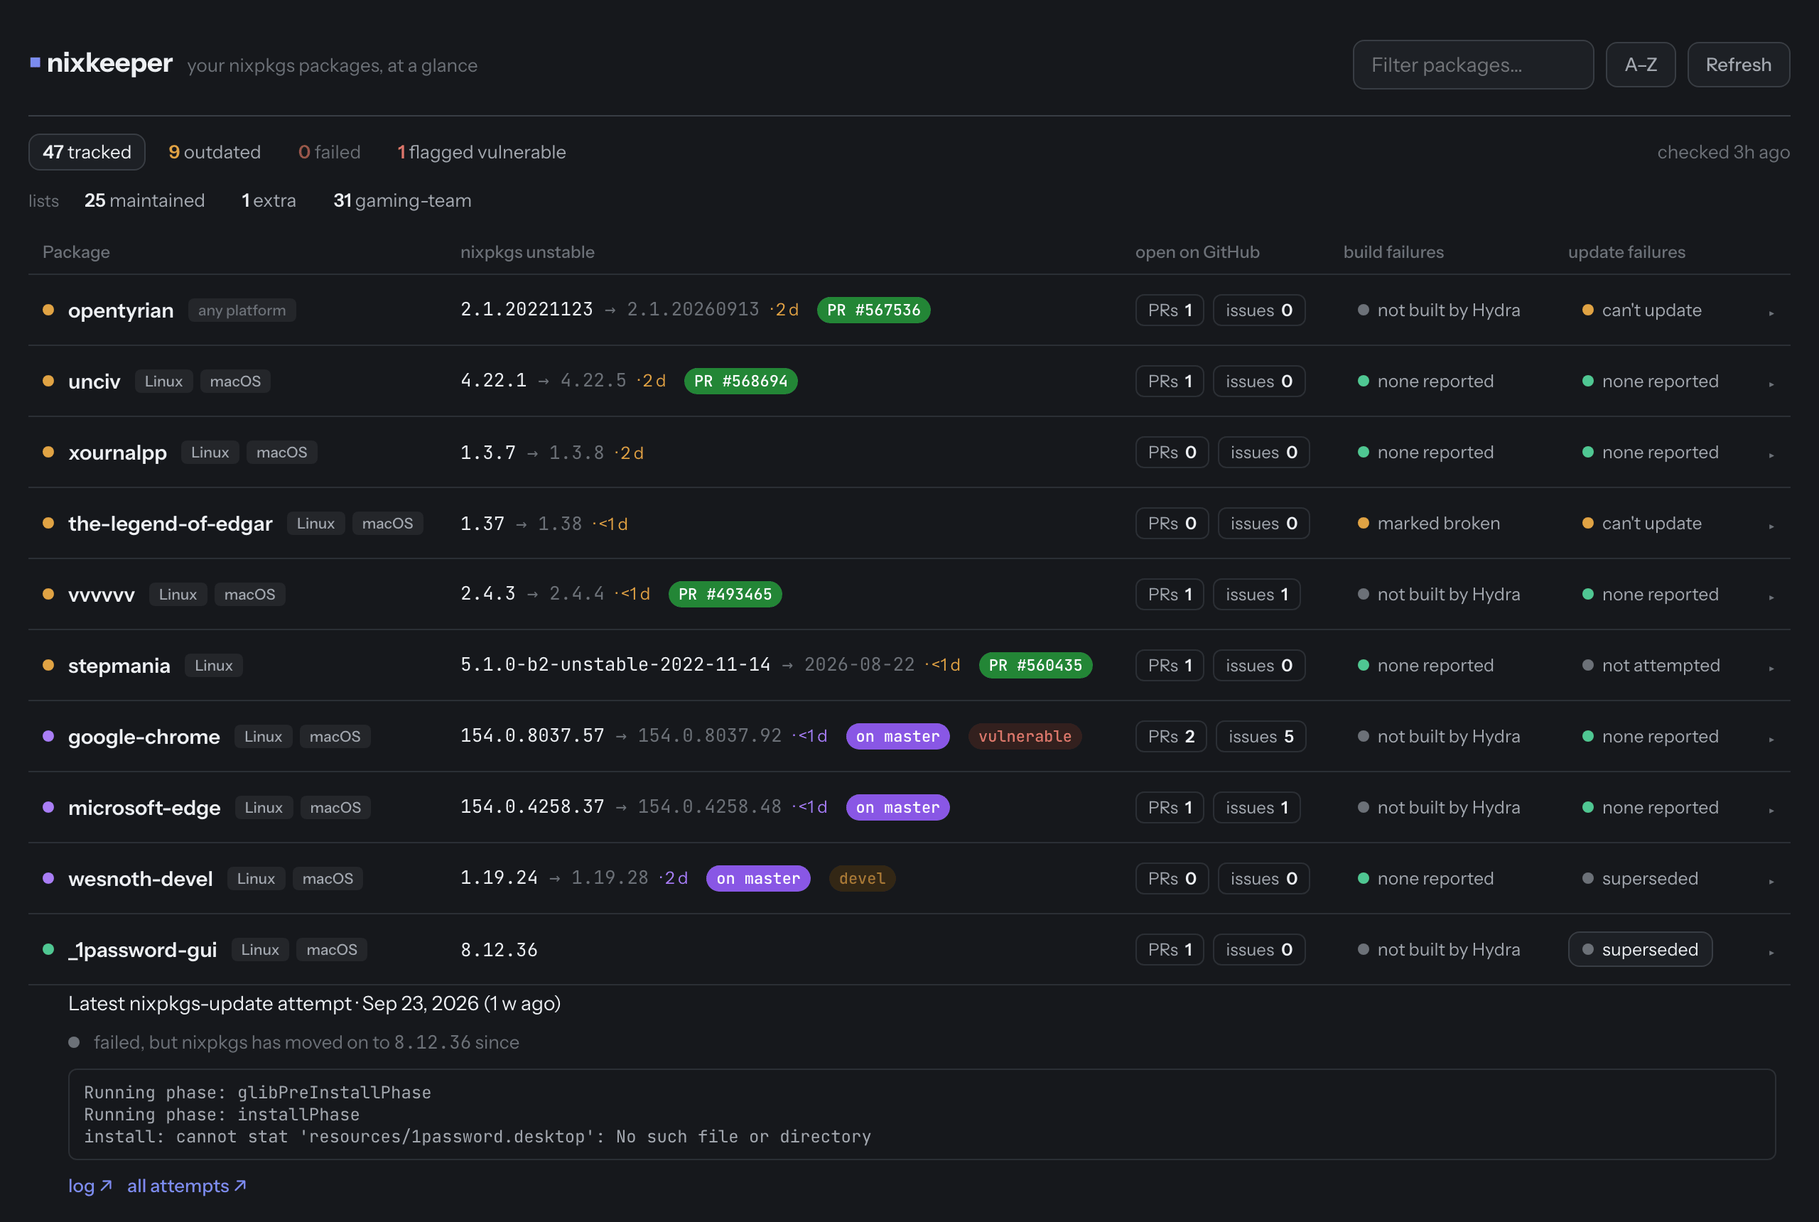
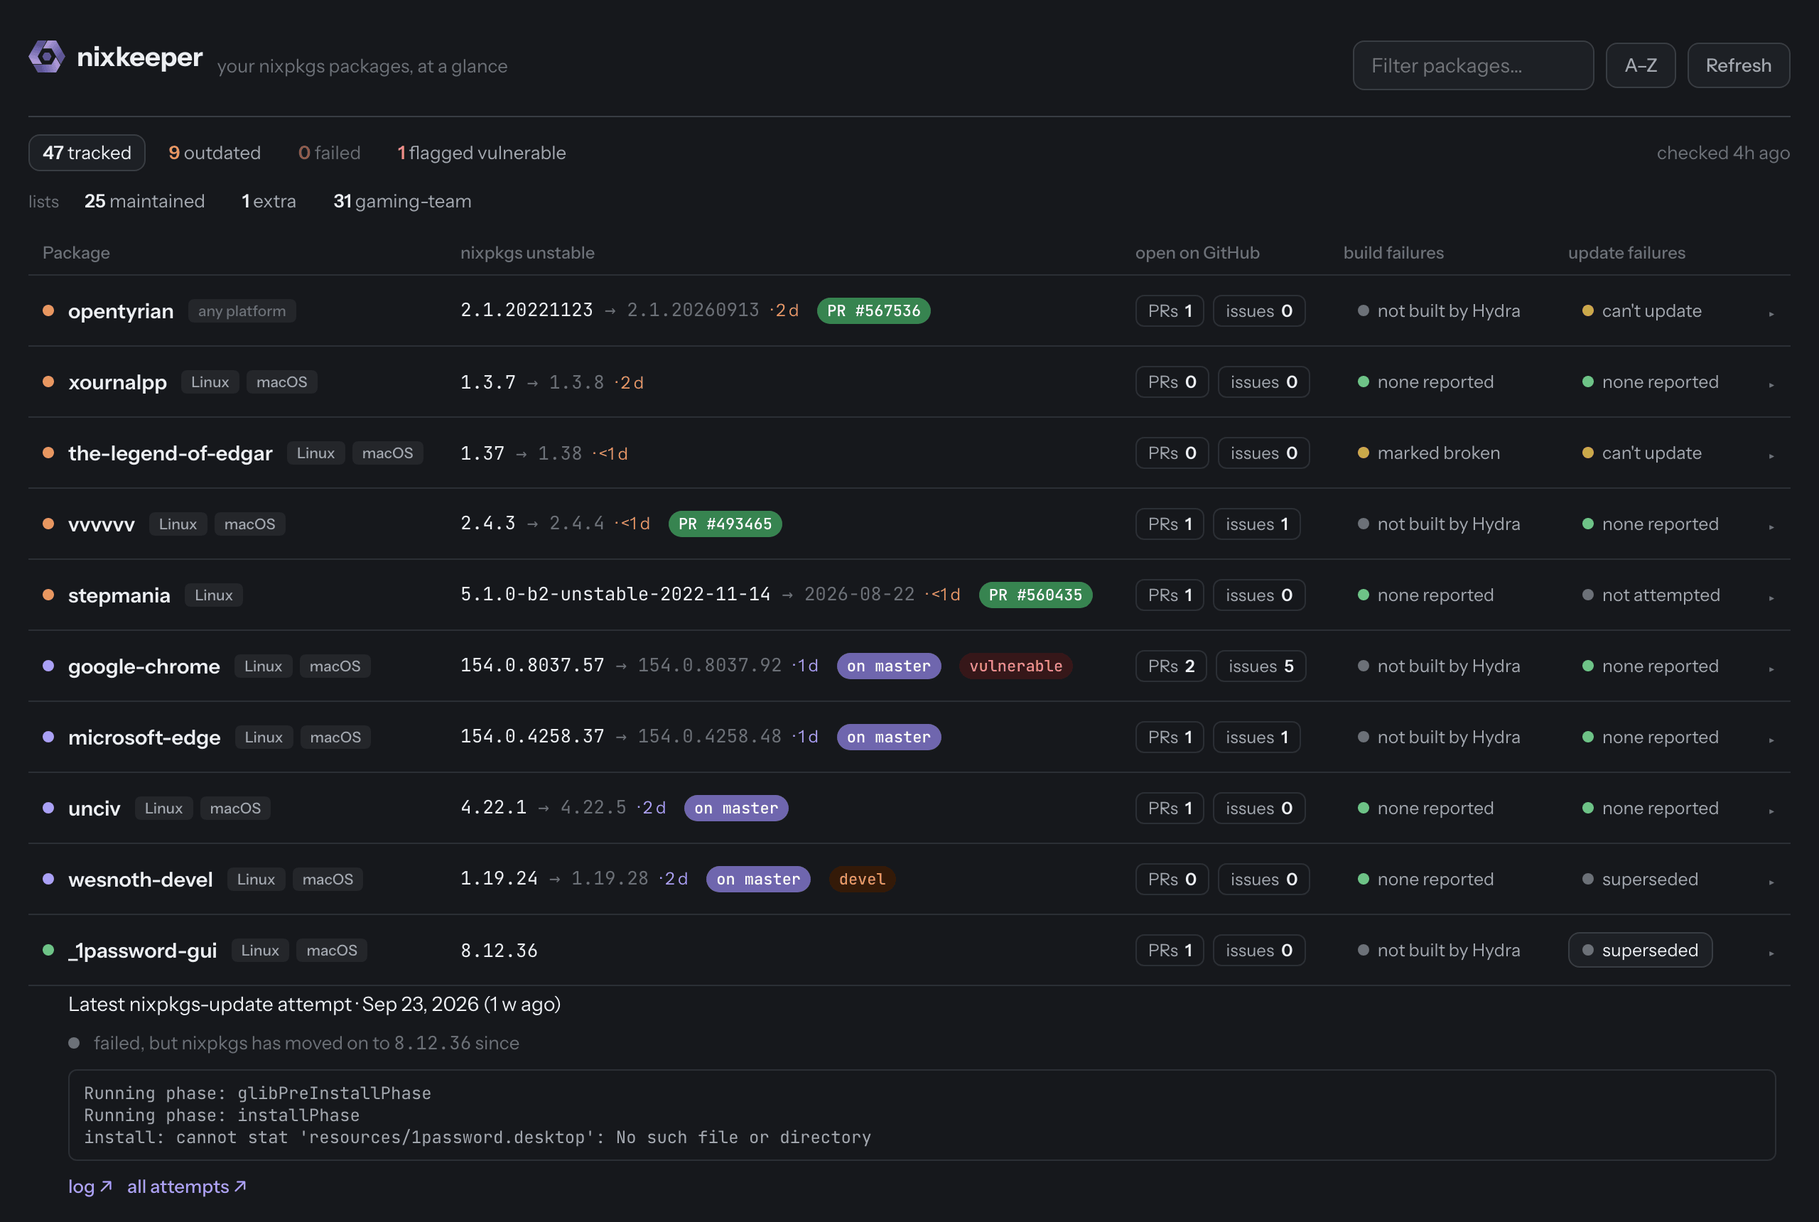
feat: page colors from nixkeeper's identity

diff --git a/assets/brand/identity.html b/assets/brand/identity.html
@@ -42,6 +42,6 @@ NixOS guide's accents, with the page's meanings.</p>
 <h2>Roles: dot, text, badge and tint, in each theme</h2>
 <div class="themes">
 <div class="theme" style="background:#fff"><div class="role"><span class="dot" style="background:#4fa46a"></span><span style="color:#28633c">up to date</span><span class="badge" style="background:#378450">ok</span><span class="tint" style="background:#e0f5e5"></span></div><div class="role"><span class="dot" style="background:#c77942"></span><span style="color:#7b461f">outdated, a new release</span><span class="badge" style="background:#a25e2c">outdated</span><span class="tint" style="background:#faebe2"></span></div><div class="role"><span class="dot" style="background:#ce6e76"></span><span style="color:#803e44">failed, not in nixpkgs, vulnerable</span><span class="badge" style="background:#a8545b">failed</span><span class="tint" style="background:#fce9ea"></span></div><div class="role"><span class="dot" style="background:#ac8b26"></span><span style="color:#695205">can't update, marked broken</span><span class="badge" style="background:#8a6e08">warn</span><span class="tint" style="background:#f6eed8"></span></div><div class="role"><span class="dot" style="background:#8c82d4"></span><span style="color:#534c84">on master</span><span class="badge" style="background:#6f66ae">merged</span><span class="tint" style="background:#ededfc"></span></div><div class="role"><span class="dot" style="background:#8c82d4"></span><span style="color:#534c84">links and key UI</span><span class="badge" style="background:#6f66ae">link</span><span class="tint" style="background:#ededfc"></span></div></div>
-<div class="theme" style="background:#16181c"><div class="role"><span class="dot" style="background:#6fc488"></span><span style="color:#6fc488">up to date</span><span class="badge" style="background:#4fa46a">ok</span><span class="tint" style="background:#0c2815"></span></div><div class="role"><span class="dot" style="background:#e99861"></span><span style="color:#e99861">outdated, a new release</span><span class="badge" style="background:#c77942">outdated</span><span class="tint" style="background:#341a08"></span></div><div class="role"><span class="dot" style="background:#f08d94"></span><span style="color:#f08d94">failed, not in nixpkgs, vulnerable</span><span class="badge" style="background:#ce6e76">failed</span><span class="tint" style="background:#361719"></span></div><div class="role"><span class="dot" style="background:#cbaa4b"></span><span style="color:#cbaa4b">can't update, marked broken</span><span class="badge" style="background:#ac8b26">warn</span><span class="tint" style="background:#2b2001"></span></div><div class="role"><span class="dot" style="background:#aaa1f6"></span><span style="color:#aaa1f6">on master</span><span class="badge" style="background:#8c82d4">merged</span><span class="tint" style="background:#211d38"></span></div><div class="role"><span class="dot" style="background:#aaa1f6"></span><span style="color:#aaa1f6">links and key UI</span><span class="badge" style="background:#8c82d4">link</span><span class="tint" style="background:#211d38"></span></div></div>
+<div class="theme" style="background:#16181c"><div class="role"><span class="dot" style="background:#6fc488"></span><span style="color:#6fc488">up to date</span><span class="badge" style="background:#378450">ok</span><span class="tint" style="background:#0c2815"></span></div><div class="role"><span class="dot" style="background:#e99861"></span><span style="color:#e99861">outdated, a new release</span><span class="badge" style="background:#a25e2c">outdated</span><span class="tint" style="background:#341a08"></span></div><div class="role"><span class="dot" style="background:#f08d94"></span><span style="color:#f08d94">failed, not in nixpkgs, vulnerable</span><span class="badge" style="background:#a8545b">failed</span><span class="tint" style="background:#361719"></span></div><div class="role"><span class="dot" style="background:#cbaa4b"></span><span style="color:#cbaa4b">can't update, marked broken</span><span class="badge" style="background:#8a6e08">warn</span><span class="tint" style="background:#2b2001"></span></div><div class="role"><span class="dot" style="background:#aaa1f6"></span><span style="color:#aaa1f6">on master</span><span class="badge" style="background:#6f66ae">merged</span><span class="tint" style="background:#211d38"></span></div><div class="role"><span class="dot" style="background:#aaa1f6"></span><span style="color:#aaa1f6">links and key UI</span><span class="badge" style="background:#6f66ae">link</span><span class="tint" style="background:#211d38"></span></div></div>
 </div>
 </body></html>

diff --git a/docs/style.css b/docs/style.css
@@ -9,25 +9,35 @@
   /* Links and key UI: the brand violet (tokens.css, from assets/brand/), which
      switches to its dark-theme value by itself. */
   --accent: var(--nk-link-text);
-  --ok: #1f8a5f;
-  --ok-soft: #e7f4ee;
-  --ok-devel: #135c3e;
-  --warn: #b8730a;
-  --warn-soft: #fbf1e1;
-  --warn-devel: #7d4e05;
+  /* Statuses: the brand tokens' roles (tokens.css), which switch to their
+     dark-theme values by themselves. Dots use the brighter fill; text uses
+     the darker text value, readable on the page's backgrounds. Outdated and
+     the amber states (can't update, marked broken) still share --warn. */
+  --ok: var(--nk-ok-fill);
+  --ok-soft: var(--nk-ok-bg);
+  --ok-devel: var(--nk-ok-text);
+  --warn: var(--nk-outdated-text);
+  --warn-dot: var(--nk-outdated-fill);
+  --warn-soft: var(--nk-outdated-bg);
+  --warn-devel: var(--nk-outdated-text);
   --stale: #8b8f94;
   --stale-soft: #eeeeef;
-  --danger: #c4433a;
-  --danger-soft: #fbe9e7;
-  /* GitHub's merged-PR purple (Primer "done"), for "on master": the update
-     is merged. fgColor-done, bgColor-done-emphasis, bgColor-done-muted. */
-  --merged: #8250df;
-  --merged-emphasis: #8250df;
-  --merged-soft: #fbefff;
-  /* GitHub's open and draft PR labels (Primer bgColor-success-emphasis,
-     bgColor-neutral-emphasis). */
-  --pr-open: #1f883d;
-  --pr-draft: #59636e;
+  /* Can't update, marked broken, a failed dependency: known problems that
+     need a hand, not failures. */
+  --caution: var(--nk-warn-text);
+  --caution-dot: var(--nk-warn-fill);
+  --danger: var(--nk-failed-text);
+  --danger-dot: var(--nk-failed-fill);
+  --danger-soft: var(--nk-failed-bg);
+  /* "On master" (the update is merged, waiting for the channel): the brand
+     violet. */
+  --merged: var(--nk-merged-text);
+  --merged-dot: var(--nk-merged-fill);
+  --merged-emphasis: var(--nk-merged-badge);
+  --merged-soft: var(--nk-merged-bg);
+  /* Update PR badges: open in the up-to-date green, draft in grey. */
+  --pr-open: var(--nk-ok-badge);
+  --pr-draft: var(--nk-neutral-l55);
   --radius: 8px;
 }
 @media (prefers-color-scheme: dark) {
@@ -39,21 +49,8 @@
     --ink-faint: #6c7178;
     --hairline: #2b2f35;
     --hairline-strong: #383d44;
-    --ok: #4fc793;
-    --ok-soft: #1b2e27;
-    --warn: #e0a344;
-    --warn-soft: #332714;
-    --ok-devel: #2e9466;
-    --warn-devel: #a8762b;
     --stale: #82868c;
     --stale-soft: #24262a;
-    --danger: #e0776e;
-    --danger-soft: #33201e;
-    --merged: #ab7df8;
-    --merged-emphasis: #8957e5;
-    --merged-soft: #ab7df826;
-    --pr-open: #238636;
-    --pr-draft: #656c76;
   }
 }
 * {
@@ -253,13 +250,16 @@ tbody tr.row td {
   background: var(--ok);
 }
 .status-dot.warn {
-  background: var(--warn);
+  background: var(--warn-dot);
 }
 .status-dot.merged {
-  background: var(--merged);
+  background: var(--merged-dot);
+}
+.status-dot.caution {
+  background: var(--caution-dot);
 }
 .status-dot.missing {
-  background: var(--danger);
+  background: var(--danger-dot);
 }
 .status-dot.neutral {
   background: var(--ink-faint);
@@ -272,6 +272,12 @@ tbody tr.row td {
   /* Short of space, the platform tags go under the name. */
   flex-wrap: wrap;
   row-gap: 4px;
+}
+/* The dot and the name stay together: only the tags wrap. */
+.pkg-name .who {
+  display: inline-flex;
+  align-items: center;
+  gap: 10px;
 }
 .pkg-name .n {
   font-weight: 600;
@@ -336,7 +342,7 @@ button.plat[aria-pressed="true"] {
   font-family: "Instrument Sans", system-ui, sans-serif;
   font-size: 12px;
 }
-/* Waiting for the channel: the merged purple, like its dot. */
+/* Waiting for the channel: the merged violet, like its dot. */
 .ver .age.merged {
   color: var(--merged);
 }
@@ -368,8 +374,8 @@ button.plat[aria-pressed="true"] {
   background: var(--danger-soft);
   color: var(--danger);
 }
-/* Outdated, but the update is already on master: GitHub's "Merged" label,
-   solid purple with white text. */
+/* Outdated, but the update is already on master: a solid violet label with
+   white text, like GitHub's "Merged". */
 .badge.onmaster {
   background: var(--merged-emphasis);
   color: #ffffff;
@@ -467,6 +473,9 @@ a.badge:hover {
 }
 .build-line .st.warn {
   color: var(--warn);
+}
+.build-line .st.caution {
+  color: var(--caution);
 }
 .build-line .st.neutral {
   color: var(--ink-faint);

diff --git a/docs/app.js b/docs/app.js
@@ -419,7 +419,7 @@ function render(list) {
     tr.className = 'row';
     tr.tabIndex = 0;
     tr.innerHTML = `
-      <td class="c-name"><div class="pkg-name"><span class="status-dot ${waitingForChannel(pkg) ? 'merged' : st}"${waitingForChannel(pkg) ? ' title="Update merged: on master, waiting for nixos-unstable"' : ''}></span><span class="n">${escapeHtml(pkg.name)}</span>${platformTags(pkg)}</div></td>
+      <td class="c-name"><div class="pkg-name"><span class="who"><span class="status-dot ${waitingForChannel(pkg) ? 'merged' : st}"${waitingForChannel(pkg) ? ' title="Update merged: on master, waiting for nixos-unstable"' : ''}></span><span class="n">${escapeHtml(pkg.name)}</span></span>${platformTags(pkg)}</div></td>
       <td class="c-ver ver mono">${verCell}</td>
       <td class="c-gh${pkg.openPRs || pkg.openIssues ? '' : ' quiet'}">${githubLinks(pkg)}</td>
       <td class="c-build">${buildCell(pkg)}</td>
@@ -522,7 +522,7 @@ function buildCell(pkg) {
     );
   if (failedBuilds(pkg).length) return button('missing', 'failure reported');
   // Known failures: shown, but not counted as failed.
-  if (buildsWith(pkg, 'broken').length) return button('warn', 'marked broken');
+  if (buildsWith(pkg, 'broken').length) return button('caution', 'marked broken');
   if (!hydraBuildsIt(pkg)) return button('neutral', 'not built by Hydra', true);
   return button('ok', 'none reported', true);
 }
@@ -546,7 +546,7 @@ function updateCell(pkg) {
   if (pkg.update?.outcome === 'superseded') return button('neutral', 'superseded');
   // A newer version the bot has no way to update to: not a failure, but it
   // needs a manual update (or an updateScript).
-  if (pkg.update?.outcome === 'cantUpdate') return button('warn', "can't update");
+  if (pkg.update?.outcome === 'cantUpdate') return button('caution', "can't update");
   if (pkg.update === null) return button('neutral', 'not attempted', true);
   return button('ok', 'none reported', true);
 }
@@ -572,7 +572,7 @@ const UPDATE_OUTCOME = {
   // Every way the bot has of updating a package declined (the excerpt says
   // why): the update needs doing by hand, or an updateScript.
   cantUpdate: {
-    dot: 'warn',
+    dot: 'caution',
     text: () =>
       "couldn't update it: none of the bot's ways of updating a package apply here. Update it by hand, or give the package an updateScript so the bot can next time",
   },
@@ -621,9 +621,9 @@ const HYDRA = 'https://hydra.nixos.org';
 const BUILD_STATUS = {
   ok: { dot: 'ok', text: 'built OK' },
   failed: { dot: 'missing', text: 'failed' },
-  broken: { dot: 'warn', text: 'marked broken in nixpkgs' },
-  dependency: { dot: 'warn', text: "didn't build: a dependency failed" },
-  unfinished: { dot: 'warn', text: "didn't finish (timed out or aborted)" },
+  broken: { dot: 'caution', text: 'marked broken in nixpkgs' },
+  dependency: { dot: 'caution', text: "didn't build: a dependency failed" },
+  unfinished: { dot: 'caution', text: "didn't finish (timed out or aborted)" },
   notBuilt: { dot: 'neutral', text: 'not built by Hydra on this platform' },
   unknown: { dot: 'neutral', text: "couldn't check Hydra on the last run" },
 };

diff --git a/assets/brand/tokens.css b/assets/brand/tokens.css
@@ -97,27 +97,27 @@
   :root {
     --nk-ok-fill: #6fc488;
     --nk-ok-text: #6fc488;
-    --nk-ok-badge: #4fa46a;
+    --nk-ok-badge: #378450;
     --nk-ok-bg: #0c2815;
     --nk-outdated-fill: #e99861;
     --nk-outdated-text: #e99861;
-    --nk-outdated-badge: #c77942;
+    --nk-outdated-badge: #a25e2c;
     --nk-outdated-bg: #341a08;
     --nk-failed-fill: #f08d94;
     --nk-failed-text: #f08d94;
-    --nk-failed-badge: #ce6e76;
+    --nk-failed-badge: #a8545b;
     --nk-failed-bg: #361719;
     --nk-warn-fill: #cbaa4b;
     --nk-warn-text: #cbaa4b;
-    --nk-warn-badge: #ac8b26;
+    --nk-warn-badge: #8a6e08;
     --nk-warn-bg: #2b2001;
     --nk-merged-fill: #aaa1f6;
     --nk-merged-text: #aaa1f6;
-    --nk-merged-badge: #8c82d4;
+    --nk-merged-badge: #6f66ae;
     --nk-merged-bg: #211d38;
     --nk-link-fill: #aaa1f6;
     --nk-link-text: #aaa1f6;
-    --nk-link-badge: #8c82d4;
+    --nk-link-badge: #6f66ae;
     --nk-link-bg: #211d38;
   }
 }

diff --git a/docs/tokens.css b/docs/tokens.css
@@ -97,27 +97,27 @@
   :root {
     --nk-ok-fill: #6fc488;
     --nk-ok-text: #6fc488;
-    --nk-ok-badge: #4fa46a;
+    --nk-ok-badge: #378450;
     --nk-ok-bg: #0c2815;
     --nk-outdated-fill: #e99861;
     --nk-outdated-text: #e99861;
-    --nk-outdated-badge: #c77942;
+    --nk-outdated-badge: #a25e2c;
     --nk-outdated-bg: #341a08;
     --nk-failed-fill: #f08d94;
     --nk-failed-text: #f08d94;
-    --nk-failed-badge: #ce6e76;
+    --nk-failed-badge: #a8545b;
     --nk-failed-bg: #361719;
     --nk-warn-fill: #cbaa4b;
     --nk-warn-text: #cbaa4b;
-    --nk-warn-badge: #ac8b26;
+    --nk-warn-badge: #8a6e08;
     --nk-warn-bg: #2b2001;
     --nk-merged-fill: #aaa1f6;
     --nk-merged-text: #aaa1f6;
-    --nk-merged-badge: #8c82d4;
+    --nk-merged-badge: #6f66ae;
     --nk-merged-bg: #211d38;
     --nk-link-fill: #aaa1f6;
     --nk-link-text: #aaa1f6;
-    --nk-link-badge: #8c82d4;
+    --nk-link-badge: #6f66ae;
     --nk-link-bg: #211d38;
   }
 }

diff --git a/scripts/brand/tokens.py b/scripts/brand/tokens.py
@@ -72,7 +72,9 @@ def role(r):
             "badge": r["l55"],
             "bg": r["l95"],
         },
-        "dark": {"fill": r["l75"], "text": r["l75"], "badge": r["l65"], "bg": r["l25"]},
+        # Badges keep L55 in both themes: white text on L65 falls below the
+        # 4.5:1 contrast minimum.
+        "dark": {"fill": r["l75"], "text": r["l75"], "badge": r["l55"], "bg": r["l25"]},
     }
 
 

diff --git a/README.md b/README.md
@@ -32,7 +32,7 @@ For each package it tracks, nixkeeper shows on one static page (`docs/`):
   [nixpkgs-update](https://nixpkgs-update-logs.nixos.org) bot (r-ryantm)
 - **Vulnerabilities**: versions Repology flags, with their known CVEs
 - **Open PRs and issues** in nixpkgs that name the package, with the update
-  PR one click away: open (GitHub's green), or merged and on master (purple)
+  PR one click away: open (green), or merged and on master (violet)
   while it waits for the channel
 
 A daily sync (GitHub Actions, or anywhere: see [Running elsewhere](#running-elsewhere))
@@ -100,8 +100,8 @@ stay in the address, so a view can be shared.
 |---|---|
 | green | up to date: nixpkgs has the newest version (for a devel package, the newest devel one), or is the only one packaging it |
 | orange | outdated: Repology or nixkeeper's own update check knows a newer version |
-| purple | outdated, but the update is already merged on master, waiting for nixos-unstable (usually a few days) |
-| red | not in nixpkgs unstable (counted as failed) |
+| violet | outdated, but the update is already merged on master, waiting for nixos-unstable (usually a few days) |
+| pink | not in nixpkgs unstable (counted as failed) |
 | grey | Repology can't compare the version: `untrusted`, `rolling`, `noscheme`, `incorrect` (shown as a badge) |
 
 **The version**: nixpkgs unstable's, then for an outdated package `→` the
@@ -113,7 +113,7 @@ the target shows just the new date.
 | Badge | Means |
 |---|---|
 | `PR #123` (green) | an open update PR in nixpkgs; grey while it's a draft |
-| `on master` (purple) | the update is merged into master; links to its PR |
+| `on master` (violet) | the update is merged into master; links to its PR |
 | `devel` | a development release, compared against other devel versions |
 | `vulnerable` | Repology flags this version; the details link its known CVEs |
 | `untrusted`, `rolling`, ... | Repology's status for a version it can't compare |
@@ -124,8 +124,8 @@ the target shows just the new date.
 
 | Shows | Means |
 |---|---|
-| failure reported (red) | its latest build failed on a platform: the panel links the log and says when it last built, and at which version |
-| marked broken | nixpkgs marks it broken on a platform (known, so not counted as failed) |
+| failure reported (pink) | its latest build failed on a platform: the panel links the log and says when it last built, and at which version |
+| marked broken (gold) | nixpkgs marks it broken on a platform (known, so not counted as failed) |
 | not built by Hydra | unfree, or kept off Hydra by nixpkgs |
 | none reported | no failure of its own; a failed dependency or an unfinished build shows only in the panel |
 
@@ -133,15 +133,15 @@ the target shows just the new date.
 
 | Shows | Means |
 |---|---|
-| failure reported (red) | the bot's update failed: the panel shows the end of its log |
-| can't update (amber) | a newer version exists, but none of the bot's ways of updating apply to this package: update it by hand, or give it an updateScript |
+| failure reported (pink) | the bot's update failed: the panel shows the end of its log |
+| can't update (gold) | a newer version exists, but none of the bot's ways of updating apply to this package: update it by hand, or give it an updateScript |
 | superseded | the attempt no longer matters: nixpkgs has moved past that version (in the channel, or merged on master), or a manual rule ignores it (`package-lists/ignored-updates.nix`) |
 | not attempted | the bot has never tried this package |
 | none reported | the bot opened a PR, found one open, had nothing to update, or finished without a recognisable result (the panel says which) |
 
 A `not refreshed` tag on a build or update cell means Hydra or the update
 logs couldn't be reached on the last sync, so it shows the last known result.
-The time at the top right is the last sync; it turns red when that was over
+The time at the top right is the last sync; it turns pink when that was over
 two days ago.
 
 ## What gets tracked

diff --git a/CHANGELOG.md b/CHANGELOG.md
@@ -26,6 +26,21 @@ The version lives in `pyproject.toml`; `flake.nix` reads it from there.
 - Links and key UI on the page (focus outlines, active filters) are in
   nixkeeper's violet, from the brand's colour tokens, which the page now
   loads (`docs/tokens.css`).
+- The page's statuses use the identity's colours: up to date in Zambian
+  Green, outdated in Persian Orange, failed and vulnerable in Norwegian Pink.
+  Dots use the brighter tint, text a darker one, which is easier to read than
+  before on both themes. Can't update, marked broken and a failed or
+  unfinished build have their own Indian Gold instead of sharing outdated's
+  colour. "On master" is in nixkeeper's violet instead of GitHub's purple,
+  and open update PRs in the identity's green.
+
+### Fixed
+
+- On narrow tables, a package's status dot could end up on a line of its
+  own, above the name; it now stays beside the name, and only the platform
+  tags wrap.
+- The identity's dark-theme badge tint (L65) was too light for white text;
+  badges use L55 in both themes.
 
 ## [0.5.0] - 2026-09-30
 

diff --git a/assets/brand/BRAND.md b/assets/brand/BRAND.md
@@ -76,11 +76,12 @@ L15):
 |---|---|---|
 | `fill`: dots, icons | L65 | L75 |
 | `text`: labels, counts | L45 | L75 |
-| `badge`: badge backgrounds (white text) | L55 | L65 |
+| `badge`: badge backgrounds (white text) | L55 | L55 |
 | `bg`: tinted backgrounds | L95 | L25 |
 
 The L75 accents aren't readable as text on white, which is why light-theme
-text uses L45. Failures and vulnerabilities share the pink: labels tell them
+text uses L45, and white text needs a badge at L55 or darker in either theme
+(L65 falls below the 4.5:1 contrast minimum). Failures and vulnerabilities share the pink: labels tell them
 apart on the page, and on the mark, which chevron turns. Never rely on colour
 alone for a status: pair it with a label or an icon.
 
